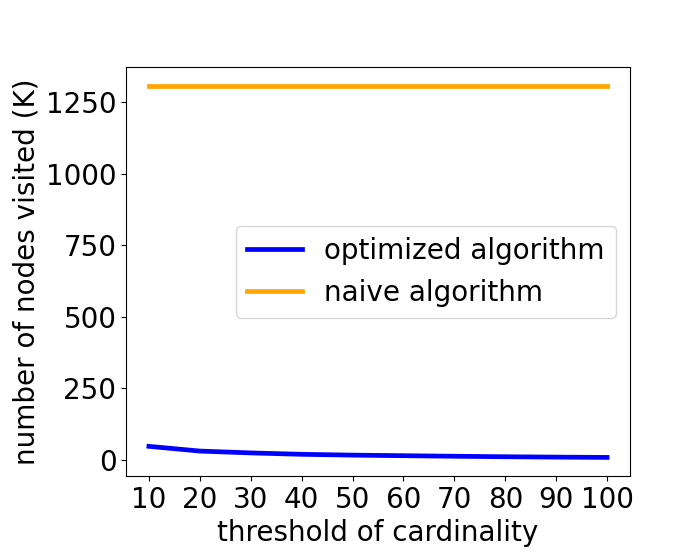
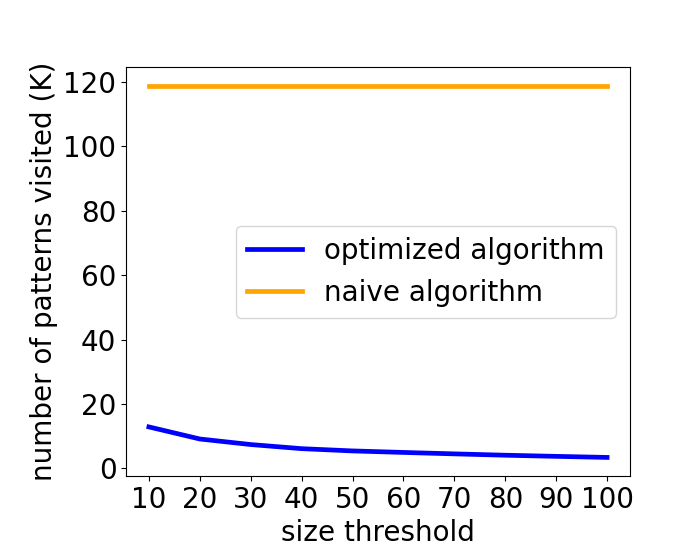
low acc, compas, thc

diff --git a/Coding/Experiments/AccuracyFairness/CompasData/Thc_2_20210629.py b/Coding/Experiments/AccuracyFairness/CompasData/Thc_2_20210629.py
@@ -58,7 +58,7 @@ def thousands_formatter(x, pos):
 
 
 
-selected_attributes =['sexC', 'ageC','raceC', 'MC', 'priors_count_C', 'c_charge_degree', 'decile_score', 'c_days_from_compas_C']
+selected_attributes =['sexC', 'ageC','raceC', 'MC', 'priors_count_C', 'c_charge_degree', 'decile_score']
 
 # all_attributes =['sexC', 'ageC','raceC', 'MC', 'priors_count_C', 'c_charge_degree', 'decile_score', 'c_days_from_compas_C',
 #  'juv_fel_count_C', 'juv_misd_count_C', 'juv_other_count_C']
@@ -162,7 +162,7 @@ for n in range(len(Thc_list)):
 plt.plot(Thc_list, execution_time1, label="optimized algorithm", color='blue', linewidth = 3.4)
 plt.plot(Thc_list, execution_time2, label="naive algorithm", color='orange', linewidth = 3.4)
 
-plt.xlabel('threshold of cardinality')
+plt.xlabel('size threshold')
 plt.ylabel('execution time (s)')
 plt.xticks(Thc_list)
 plt.subplots_adjust(bottom=0.15, left=0.18)
@@ -174,8 +174,8 @@ plt.show()
 fig, ax = plt.subplots()
 plt.plot(Thc_list, num_calculation1, label="optimized algorithm", color='blue', linewidth = 3.4)
 plt.plot(Thc_list, num_calculation2, label="naive algorithm", color='orange', linewidth = 3.4)
-plt.xlabel('threshold of cardinality')
-plt.ylabel('number of nodes visited (K)')
+plt.xlabel('size threshold')
+plt.ylabel('number of patterns visited (K)')
 ax.yaxis.set_major_formatter(FuncFormatter(thousands_formatter))
 
 

diff --git a/Coding/Experiments/AccuracyFairness/CompasData/Thc_1_20210201.py b/Coding/Experiments/AccuracyFairness/CompasData/Thc_1_20210201.py
@@ -147,7 +147,7 @@ for n in range(len(Thc_list)):
 plt.plot(Thc_list, execution_time1, label="optimized algorithm", color='blue', linewidth = 3.4)
 plt.plot(Thc_list, execution_time2, label="naive algorithm", color='orange', linewidth = 3.4)
 
-plt.xlabel('threshold of cardinality')
+plt.xlabel('size threshold')
 plt.ylabel('execution time (s)')
 plt.xticks(Thc_list)
 plt.subplots_adjust(bottom=0.15, left=0.18)
@@ -159,8 +159,8 @@ plt.show()
 fig, ax = plt.subplots()
 plt.plot(Thc_list, num_calculation1, label="optimized algorithm", color='blue', linewidth = 3.4)
 plt.plot(Thc_list, num_calculation2, label="naive algorithm", color='orange', linewidth = 3.4)
-plt.xlabel('threshold of cardinality')
-plt.ylabel('number of nodes visited (K)')
+plt.xlabel('size threshold')
+plt.ylabel('number of patterns visited (K)')
 ax.yaxis.set_major_formatter(FuncFormatter(thousands_formatter))
 
 

diff --git a/Coding/Experiments/AccuracyFairness/CompasData/Thc.py b/Coding/Experiments/AccuracyFairness/CompasData/Thc.py
@@ -119,7 +119,7 @@ for n in range(len(Thc_list)):
 plt.plot(Thc_list, execution_time1, label="new algorithm", color='blue', linewidth = 3.4)
 plt.plot(Thc_list, execution_time2, label="naive algorithm", color='orange', linewidth = 3.4)
 
-plt.xlabel('threshold of cardinality')
+plt.xlabel('size threshold')
 plt.ylabel('execution time (s)')
 plt.title('CompasData')
 plt.xticks(Thc_list)
@@ -132,7 +132,7 @@ plt.show()
 fig, ax = plt.subplots()
 plt.plot(Thc_list, num_calculation1, label="new algorithm", color='blue', linewidth = 3.4)
 plt.plot(Thc_list, num_calculation2, label="naive algorithm", color='orange', linewidth = 3.4)
-plt.xlabel('threshold of cardinality')
+plt.xlabel('size threshold')
 plt.ylabel('number of cardinality calculations (K)')
 plt.title('CompasData')
 ax.yaxis.set_major_formatter(FuncFormatter(thousands_formatter))
